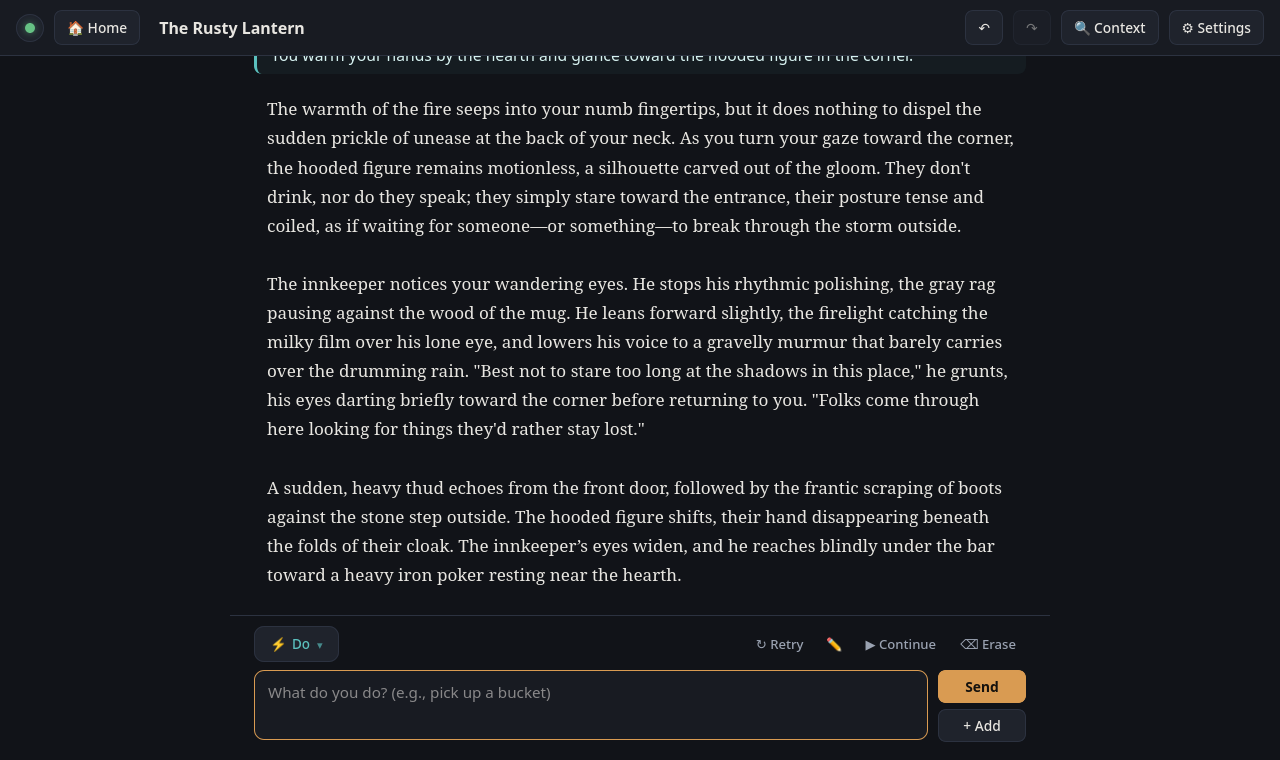
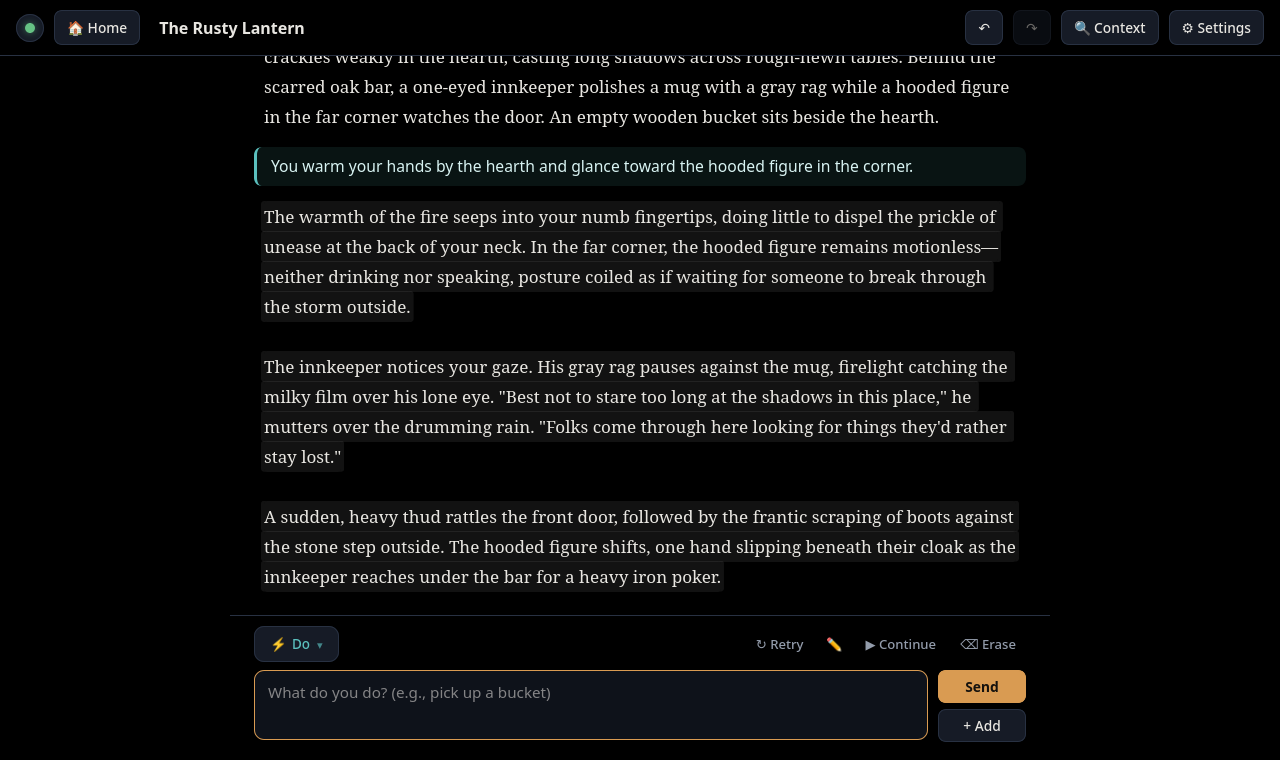
Rewrite README and update UI screenshots

Changed region(s): [[0.0, 0.0, 1.0, 0.3329], [0.1875, 0.3632, 0.7812, 0.6053], [0.1875, 0.6355, 0.7812, 0.7868]]

diff --git a/README.md b/README.md
@@ -1,57 +1,90 @@
+<div align="center">
+
 # AI RPG Harness
 
-A local, self-hosted interactive fiction & AI RPG web application modeled after AI Dungeon's core gameplay loop—with zero Python third-party dependencies, full desktop and mobile web UI, nested Multiple Choice scenarios, Character Creator, Story Cards, dynamic memory & context budgeting, JavaScript scripting hooks, and one-command Tailscale mobile access.
+**Play unlimited, private, AI Dungeon-style text adventures on your own computer—or from your phone.**
 
-> **Disclosure:** All of the code in this repository was generated with AI assistance.
-> **Security Note:** This app has no authentication and runs JavaScript scenario scripts via Node.js `vm`. Run it only on `localhost` or a private network (such as Tailscale), and only execute scripts you trust.
+*Self-hosted · Zero Python dependencies · Local & Cloud AI · Desktop & Mobile*
+
+[![Python 3.10+](https://img.shields.io/badge/Python-3.10%2B-3776AB?logo=python&logoColor=white)](https://www.python.org/)
+[![Node.js 18+](https://img.shields.io/badge/Node.js-18%2B-339933?logo=node.js&logoColor=white)](https://nodejs.org/)
+[![License: MIT](https://img.shields.io/badge/License-MIT-f5b759.svg)](LICENSE)
+
+[Features](#features) · [Installation](#installation) · [How to Play](#how-to-play) · [Technical Information](#technical-information)
+
+<br />
+
+<img src="docs/screenshots/gameplay-desktop.png" alt="AI RPG Harness desktop gameplay" width="880" />
+
+*Inline dark-mode prose, styled character actions, and quick turn controls.*
+
+</div>
 
 ---
 
-## Screenshots
+AI RPG Harness gives you a clean, distraction-free dark-mode home for interactive storytelling. Connect it to a local AI running on your own hardware—or plug in an OpenAI-compatible cloud API—and start playing right away. No subscriptions, no accounts, and no `pip install` needed.
 
-| Home (`Scenarios`) | Desktop Gameplay | Mobile Gameplay |
-|---|---|---|
-| ![Home Scenarios](docs/screenshots/home.png) | ![Desktop Gameplay](docs/screenshots/gameplay-desktop.png) | ![Mobile Gameplay](docs/screenshots/gameplay-mobile.png) |
+> [!NOTE]
+> **Disclosure:** All code in this repository was generated with AI assistance.
+
+> [!WARNING]
+> **Safety Notice:** This app has no login screen and runs JavaScript scenario scripts on your machine. Only run it on your own computer (`localhost`) or a private network like Tailscale, and only use scripts you trust.
 
 ---
 
 ## Features
 
-- **Home Hub (`Adventures` & `Scenarios`)**: Clean 2-tab start page to resume adventures or browse, play, create, edit, and import scenarios.
-- **4 Input Modes**: Compact collapsible pill switcher (`Do`, `Say`, `Story`, `Guide`) plus `Send` (streams SSE generation) and `+ Add` (appends beats without triggering generation yet).
-- **Turn Editing & Retry Variants**:
-  - `Undo` / `Redo`, `Continue`, `Erase`, `Retry`, and `Retry with changes`.
-  - Smooth horizontal **swipe carousel** on mobile (`‹` / `›` on desktop) to switch between Retry generations.
-  - Hover (desktop) or tap (mobile) any message to **Edit**, **Delete**, **Erase to Here**, **Change Name** (Third Person), or **View Context**.
-- **Scenario Engine**:
-  - **Story** scenarios with `${placeholder}` prompts and Third Person mode.
-  - **Deep Nested Multiple Choice** trees with recursive inheritance of Story Cards, Scripts, Plot fields, and leaf option titles.
-  - **Character Creator** with **Quickstart** (auto-rolled profile + cards) and a step-by-step Name / Gender / Card Category wizard.
-  - **Scenario Importer**: Import from `play.aidungeon.com` Scenario URLs (via optional Playwright) or exported `metadata.json` / `.json` files.
-- **Plot, Memory & Context Inspector**:
-  - Dedicated **Adventure** (`Plot`, `Cards`, `Scripts`, `Details`) and **AI Settings** tabs; AI Settings persist globally in `settings.json` across new adventures.
-  - Keyword-triggered & pinned **Story Cards** (`.json` import/export + AI entry generation).
-  - Automatic **Story Summarization** (every 15 actions) & **Memory Bank** retrieval (every 6 actions).
-  - **View Context** modal with proportional token-usage bar, `Context Warning` notices, `Removed Context` deduplication log, and Memory Bank Explorer.
-  - **Scripting API**: Sandboxed Node.js `input`, `context`, and `output` modifier hooks (`Built-in` + up to 10 reusable scripts per story).
-  - **Backups**: Export any adventure as a `.zip` archive (`Adventure` tab → `Details`).
+### 📖 Smooth, Distraction-Free Gameplay
+- **Inline Prose & Styled Actions:** Stories read like a book on a deep dark-mode canvas, with your **Do** and **Say** actions clearly highlighted.
+- **4 Ways to Steer the Story:** Switch anytime between **Do** (take an action), **Say** (speak dialogue), **Story** (write narration directly), and **Guide** (give the AI a one-turn behind-the-scenes direction).
+- **Total Turn Control:** **Undo**, **Redo**, **Continue**, **Erase**, **Retry**, and **Retry with changes** (tell the AI exactly what to tweak in its last reply).
+- **Queue Multiple Beats:** Use **`+ Add`** to stack actions or dialogue without triggering the AI yet, then press **Continue** or **Send** when you're ready.
+- **Swipe Between Retries:** Swipe sideways on mobile (or use `‹` / `›` on desktop) to flip between different versions of the latest AI response.
+- **Edit Any Turn:** Hover over a message on desktop—or tap it on mobile—to **Edit**, **Delete**, **Erase to Here**, **Change Name** (in Third Person mode), or **View Context**.
 
----
+### 🗺 Scenarios, Choices & Characters
+- **Ready Out of the Box:** Comes with two starter worlds (*The Rusty Lantern* and *Orbital Relay 9*) in a clean **Adventures / Scenarios** home hub.
+- **Three Scenario Types:**
+  - **Story:** Classic opening prompt with fill-in-the-blank `${placeholder}` questions and optional Third Person mode.
+  - **Multiple Choice:** Multi-level branching paths where each choice can bring its own opening, lore, Story Cards, and scripts.
+  - **Character Creator:** Step-by-step hero builder—or click **Quickstart** to roll a random character and jump straight into the story.
+- **Import from AI Dungeon:** Import `.json` scenario files (`metadata.json`) or pull public scenarios directly from a `play.aidungeon.com` URL.
 
-## Requirements
+<p align="center">
+  <img src="docs/screenshots/home.png" alt="AI RPG Harness Home hub showing Scenarios" width="800" />
+  <br />
+  <sub>The Home hub: jump into any scenario with a click, create your own, or import from AI Dungeon.</sub>
+</p>
 
-- **Python 3.10+** (uses only the Python standard library — no `pip install` needed)
-- **Node.js 18+** (used for JS scripting hooks and optional scenario URL import)
-- **An OpenAI-compatible local LLM server**, such as:
-  - [`llama.cpp`](https://github.com/ggml-org/llama.cpp) (`llama-server`)
-  - Ollama, LM Studio, or vLLM
-- *(Optional, for importing `play.aidungeon.com` URLs directly)*: Playwright + Firefox (`npm install && npx playwright install firefox`)
+### 🧠 Memory That Keeps Up With Long Stories
+- **Story Cards:** Save characters, places, factions, and items that automatically feed into the AI whenever their keywords come up (or pin key cards so they're always active). Generate card entries with AI or import/export `.json` card decks.
+- **Plot Controls:** Shape the AI with **AI Instructions**, **Plot Essentials**, **Author's Note**, and **Story Summary** (with one-click **Auto-Summarize**).
+- **Automatic Long-Term Memory:** Turn on **Auto Summarization** and the **Memory Bank** so the AI remembers important events from much earlier in your campaign.
+- **Context Viewer:** Click **Context** anytime to see exactly what the AI is reading, how much memory is used, and any warnings.
+
+### 🔌 Any AI, Any Device, Extra Add-ons
+
+<img align="right" src="docs/screenshots/gameplay-mobile.png" alt="AI RPG Harness mobile gameplay" width="240" />
+
+- **Local or Cloud AI:** Works with **llama.cpp**, **Ollama**, **LM Studio**, **vLLM**, **OpenRouter**, **OpenAI**, and other OpenAI-compatible servers. Switch endpoints or models right inside the app—no restart needed.
+- **Smart Model Adaptation:** Automatically detects your model's maximum context window and shows the right **Thinking / Reasoning** control (either a 5-step effort slider or a simple on/off toggle) when supported.
+- **One-Click Community Scripts:** Toggle **🎭 Inner Self** (NPC memory, goals, and secrets) and **✨ Auto-Cards** (automatic Story Card creation) right when starting an adventure, or write and test your own JavaScript hooks.
+- **Play on Your Phone:** Responsive mobile layout with swipe gestures and one-command [Tailscale](https://tailscale.com/) support so you can keep playing from anywhere.
+- **Instant Auto-Save & `.zip` Backups:** Every setting change saves automatically, and you can download any adventure as a `.zip` backup anytime.
+
+<br clear="right" />
 
 ---
 
 ## Installation
 
-### 1. Clone the repository
+### What You Need
+- **Python 3.10+** *(uses only Python's built-in library—nothing to `pip install`)*
+- **Node.js 18+** *(used for scenario scripts and optional URL imports)*
+- **An AI model to connect to:** a local server like [`llama.cpp`](https://github.com/ggml-org/llama.cpp) (`llama-server`), **Ollama**, **LM Studio**, or **vLLM**—or a cloud API key (such as **OpenRouter** or **OpenAI**)
+- *(Optional)* **Playwright + Firefox** — only needed if you want to import scenarios directly from `play.aidungeon.com` links
+
+### 1. Clone the Repository
 
 ```bash
 git clone https://github.com/ya5h-P/AI-RPG-Harness.git
@@ -59,120 +92,179 @@ cd AI-RPG-Harness
 chmod +x start.sh
 ```
 
-### 2. Optional: Enable `play.aidungeon.com` URL imports
+### 2. *(Optional)* Enable AI Dungeon URL Imports
 
-If you only write scenarios locally or import `.json` files, you can skip this step. To import public scenarios directly by URL:
+Skip this if you only create your own scenarios or import `.json` files:
 
 ```bash
 npm install
 npx playwright install firefox
 ```
 
-### 3. Start an OpenAI-compatible LLM server
+### 3. Start Your Local AI *(or Skip for Cloud APIs)*
 
-Start your local model server (default expected address: `http://127.0.0.1:8080`). Example with `llama.cpp`:
+If you're running a local model, start your server first (AI RPG Harness checks `http://127.0.0.1:8080` by default). For example, with `llama.cpp`:
 
 ```bash
-llama-server -m /path/to/model.gguf --port 8080 -c 32768
+llama-server -m /path/to/your-model.gguf --port 8080 -c 32768
 ```
 
-*(If you use Ollama on `:11434` or LM Studio on `:1234`, set `LLM_URL` when starting—see Configuration below.)*
+### 4. Start the App
 
----
-
-## Running the App
-
-### Desktop (Local Only)
+**On your computer:**
 
 ```bash
 ./start.sh
 ```
 
-Open **http://127.0.0.1:7860** in your browser. Look for the green dot in the top-left corner—hovering it shows the connected model name.
+Open **http://127.0.0.1:7860** in your browser.
 
-### Play from Your Phone (Tailscale)
+**To play from your phone over Tailscale:**
 
-Make sure [Tailscale](https://tailscale.com/) is connected on both your host machine and phone, then run:
+Make sure [Tailscale](https://tailscale.com/) is connected on both your computer and your phone, then run:
 
 ```bash
 ./start.sh --tailscale
 ```
 
-`start.sh` prints your Tailscale IP URL (for example `http://100.x.y.z:7860`) and MagicDNS URL (`http://<hostname>.ts.net:7860`). Open either URL on your phone browser.
+`start.sh` prints your Tailscale IP URL (e.g. `http://100.x.y.z:7860`) and MagicDNS URL (`http://<hostname>.ts.net:7860`). Open either link on your phone.
 
-### Background Management Commands
+### Everyday Commands
 
 ```bash
-./start.sh --bg --tailscale   # Run detached in background (writes logs/server.log)
-./start.sh status             # Show LLM server, Web UI health, and phone URL
-./start.sh stop               # Stop background Web UI server
-./start.sh test               # Run the full automated unit test suite
-./start.sh --help             # Show CLI options and environment variables
+./start.sh --bg --tailscale   # Run in the background (logs to logs/server.log)
+./start.sh status             # Check AI server & Web UI health + show phone URL
+./start.sh stop               # Stop the background server
+./start.sh test               # Run the automated test suite
+./start.sh --help             # Show all options
 ```
 
 ---
 
-## Usage Guide
+## How to Play
 
-### 1. Starting & Playing an Adventure
+### 1. Connect Your AI Model
+On the Home screen, look at the button in the **top-right corner**—a **green dot** with your model's name means you're ready to play.
 
-- **Home Screen**: Switch between **Adventures** (saved stories) and **Scenarios** (starter templates, custom scenarios, or imported scenarios).
-- **Modes** (tap/click the mode pill at bottom-left to expand `← Do | Say | Story | Guide`):
-  - **Do** (`Alt+1`): Character actions, automatically formatted (`you` → `You <action>.`, or Third Person `<Name> <action>.`) and marked with `>` in AI context.
-  - **Say** (`Alt+2`): Character dialogue (`You say, "<dialogue>"`).
-  - **Story** (`Alt+3`): Direct inline narrative text without action formatting.
-  - **Guide** (`Alt+4`): Temporary out-of-character GM instruction for the next AI turn only.
-- **Send vs `+ Add`**:
-  - **Send** adds your input and immediately streams the AI response (`Enter` sends; `Shift+Enter` inserts a newline).
-  - **`+ Add`** appends your formatted turn to the feed *without* triggering generation yet so you can stack multiple beats before pressing **▶ Continue** or **Send**.
-- **Top-Right Controls**: `↶ Undo`, `↷ Redo`, `🔍 Context` (inspect prompt tokens & warnings), and `⚙ Settings`.
+To connect to Ollama, LM Studio, or a cloud provider:
+1. Click the **Model** button in the top-right corner of the Home screen *(or click the status dot in the top-left during an adventure)*.
+2. Enter your **Base URI**:
+   - **llama.cpp:** `http://127.0.0.1:8080`
+   - **Ollama:** `http://127.0.0.1:11434/v1`
+   - **LM Studio:** `http://127.0.0.1:1234/v1`
+   - **OpenRouter:** `https://openrouter.ai/api/v1`
+   - **OpenAI:** `https://api.openai.com/v1`
+3. Add your **API Key** if required, click **↻ Fetch** to choose a model, and click **Save & Connect**.
 
-### 2. Mobile Controls & Gestures
+### 2. Start an Adventure
+- Switch between **Adventures** (saved stories) and **Scenarios** (starter worlds, custom scenarios, or imported scenarios).
+- Click any scenario card to start playing—or use **+ Create Scenario** and **📥 Import** in the top-right.
+- On the setup screen, you can also toggle **🎭 Inner Self** and **✨ Auto-Cards** on with a single click before starting.
 
-- **Tap any message** in the story feed to open its inline toolbar (`Edit`, `Delete`, `Erase to Here`, `View Context`, `Change Name`); tap again or tap outside to close. *(On desktop, hover over any message instead.)*
-- **Swipe sideways** on the latest AI response when multiple Retry generations exist to glide smoothly between variants.
+### 3. Take Turns & Steer the Story
+Click the mode pill at the bottom-left (or use keyboard shortcuts) to choose how your turn is sent:
 
-### 3. Settings (`Adventure` & `AI Settings`)
+| Mode | Shortcut | What It Does |
+| :--- | :---: | :--- |
+| ⚡ **Do** | `Alt+1` | Take an action (auto-formatted like `You warm your hands by the hearth.`). |
+| 💬 **Say** | `Alt+2` | Speak dialogue (auto-formatted like `You say, "Who goes there?"`). |
+| 📖 **Story** | `Alt+3` | Write narrative text directly into the story without action formatting. |
+| 🧭 **Guide** | `Alt+4` | Send a temporary out-of-character instruction for the next AI turn only. |
 
-Click **`⚙ Settings`** in the top-right during any adventure:
+- **Send** (`Enter`) adds your turn and streams the AI's response (`Shift+Enter` adds a new line).
+- **`+ Add`** appends your turn without triggering the AI yet, so you can stack multiple beats before pressing **▶ Continue** or **Send**.
 
-- **Adventure Tab**:
-  - **Plot**: `AI Instructions`, `Story Summary` (with manual `✨ Auto-Summarize`), `Plot Essentials`, `Author's Note`, and `Third Person` toggle/name.
-  - **Cards**: Create, search, filter, pin, AI-generate entries, or import/export AI Dungeon Story Card `.json` files.
-  - **Scripts**: Toggle built-in JS hooks or attach up to 10 reusable scripts with a live test runner & console log.
-  - **Details**: Edit title/description/tags and download a full `.zip` backup.
-- **AI Settings Tab**:
-  - Tune **Model Settings** (`Context Length`, `Response Length`, `Temperature`, `Top P`, `Top K`, `Repetition / Presence / Frequency Penalty`) and **Memory & Output** (`Auto Summarization`, `Memory Bank`, `Raw Model Output`, `Follow latest text`, `Enable Gemma Thinking Mode`).
-  - Changes inside `AI Settings` **auto-save immediately** to the active story *and* persist globally to `settings.json` for all future adventures.
-
-### 4. Switching Models & Providers (Local or Cloud)
-
-Click **`🔌 Model`** in the **top-right of the Home page** (or click the status dot anytime) to switch between any local or OpenAI-compatible remote endpoint without restarting:
-
-- **Base URI**: e.g., `http://127.0.0.1:8080` (`llama-server`), `http://127.0.0.1:11434/v1` (Ollama), `http://127.0.0.1:1234/v1` (LM Studio), `https://openrouter.ai/api/v1`, or `https://api.openai.com/v1`
-- **API Key**: Optional (`Authorization: Bearer ...` header); masked on read and saved locally in `settings.json`
-- **Model Name**: Automatically populated if the server offers 1 model, or selectable via `↻ Fetch` when multiple models are available
+### 4. Edit, Retry & Customize
+- **Quick bar:** Use **↻ Retry**, **✏ Retry with changes**, **▶ Continue**, and **⌫ Erase** above the input box, plus **↶ Undo** and **↷ Redo** in the top bar.
+- **Per-message actions:** Hover on desktop or tap on mobile to **Edit**, **Delete**, **Erase to Here**, **Change Name**, or **View Context**.
+- **⚙ Settings (auto-saved):**
+  - **Adventure tab:** Manage **Plot** (*AI Instructions*, *Story Summary* + *Auto-Summarize*, *Plot Essentials*, *Author's Note*, *Third Person*), **Cards**, **Scripts** (built-in, reusable, and community scripts + console log), and **Details** (title, description, tags, and **`.zip` backup**).
+  - **AI Settings tab:** Tune **Context Length** (slider + number input), **Response Length**, **Temperature**, **Top P / Top K**, penalties, **Auto Summarization**, **Memory Bank**, **Raw Model Output**, **Follow latest text**, and model-aware **Thinking / Reasoning** controls. Changes save immediately and carry over as defaults for future adventures.
 
 ---
 
-## Configuration (Environment Variables)
+## Technical Information
+
+### Architecture
+
+| Component | Files | Implementation Details |
+| :--- | :--- | :--- |
+| **HTTP & SSE Server** | `server.py` | Python 3.10+ stdlib `ThreadingHTTPServer`, per-story `threading.Lock` synchronization, Server-Sent Events (SSE) streaming proxy, `30s` idle socket timeout, graceful client-disconnect handling. |
+| **Core Engine** | `harness.py` | Dataclass models (`Story`, `Scenario`, `StoryCard`, `MemoryItem`, `Script`, `Segment`), recursive Multiple Choice inheritance (up to depth 12), `${placeholder}` substitution, context planner, TF-IDF Memory Bank, and atomic JSON writes (`.tmp` + `os.replace`). |
+| **JS Script Sandbox** | `script_runner.py` | Isolated Node.js `vm` execution per hook (`library`, `input`, `context`, `output`) with timeouts (`2.5s` library, `3.0s` hook, `6.0s` subprocess). Exposes AI Dungeon-compatible `state`, `info`, `history`, `storyCards` / `worldInfo`, `quests`, and card CRUD helpers. |
+| **URL Importer** | `aidungeon_importer.mjs` | Optional Playwright (headless Firefox) GraphQL response interceptor for `play.aidungeon.com`, with recursive option-tree hydration (up to depth 4, max 30 fetches). |
+| **Web Frontend** | `static/index.html`, `static/style.css`, `static/app.js` | Zero-build vanilla HTML/CSS/JS SPA with SSE streaming, touch swipe carousel for retry variants, and debounced auto-save settings. |
+
+### Context Budgeting & Memory Pipeline
+
+`build_context_plan()` in `harness.py` assembles prompts using a Required vs. Dynamic token budget (default context length: `16,384` tokens, clamped to the active model's detected limit):
+
+1. **Required Context (capped at 70% of effective context limit):** Allocated in priority order—`Front Memory` and `Last Action` are never truncated, followed by `Author's Note` → `Plot Essentials` → `AI Instructions` → `Story Summary`.
+2. **Dynamic Context (remaining budget):**
+   - **Story Cards (~25%):** Pinned cards first, then keyword-matched cards scanned across recent segments and ranked by recency and hit count.
+   - **Memory Bank (~25%, when enabled):** Ranked against the last 3 segments via TF-IDF cosine similarity.
+   - **Story History (~50%, or ~75% without Memory Bank):** Packed newest-first while always retaining the latest segment.
+3. **Background Memory Maintenance (`_run_memory_maintenance`):**
+   - **Memory Bank:** Once `>= 12` unsummarized segments accumulate, compresses the oldest 6-segment window into a 1–3 sentence memory via a one-shot LLM call.
+   - **Auto Summarization:** Updates the rolling 3–5 sentence Story Summary every 15 segments, preserving manual edits.
+4. **Tokenization & Output Cleanup:** Queries `llama.cpp` `/tokenize` for exact counts when available (falling back to `~4 chars/token`). Unless **Raw Model Output** is enabled, trims incomplete trailing sentences on `finish_reason == "length"` and strips repeated leading sentences or suffix-prefix dialogue overlaps (recorded under `Removed Context` in the Context Viewer).
+
+### Provider, Context & Reasoning Detection
+
+- **Endpoint Compatibility:** Supports `auto`, `llama_cpp`, and `openai_compat` provider routing, normalized `/v1` path joining, and optional `Authorization: Bearer` headers (masked on read in UI responses).
+- **Context Limit Probing:** Queries `llama.cpp` `/props` & `/slots` (`n_ctx`) or parses `/v1/models` metadata (`context_length`, `max_model_len`, `max_context_length`, `input_token_limit`, `context_window`).
+- **Thinking / Reasoning Classification:** Automatically classifies the active model as:
+  - `effort` — stepped `reasoning_effort` (`off`, `low`, `medium`, `high`, `xhigh`) via `/props` `supports_reasoning_effort`, `/v1/models` `supported_parameters`, or model family detection (e.g., `gpt-5`, `o1`/`o3`/`o4`, `claude-3.7`/`4`, `gemini-2.5`/`3`/`4`, `grok-4`).
+  - `toggle` — boolean `chat_template_kwargs.enable_thinking` (e.g., `gemma-4`, `qwen3`, `deepseek-r1`, `glm-4`).
+  - `none` — hides thinking controls when unsupported.
+
+<details>
+<summary><strong>Environment Variables</strong></summary>
 
 | Variable | Default | Description |
-|---|---|---|
+| :--- | :--- | :--- |
 | `PORT` | `7860` | Web UI HTTP port |
 | `HOST` | `127.0.0.1` | Bind host (`0.0.0.0` for LAN, or pass `--tailscale`) |
 | `LLM_URL` | `http://127.0.0.1:8080` | Default Base URI of your OpenAI-compatible LLM server |
-| `LLM_API_KEY` | *(optional)* | Default Bearer API key for remote OpenAI-compatible providers |
-| `LLM_MODEL` | *(auto)* | Default model name override |
-| `LLM_PORT` | `8080` | Port checked by `start.sh` when using default `LLM_URL` |
-| `LLAMA_SERVE_SCRIPT` | *(optional)* | Path to a local bash script launched when clicking `Start LLM` in the Web UI |
-| `TAILSCALE` | `0` | Set to `1` to bind Tailscale IP automatically |
+| `LLM_API_KEY` | *(optional)* | Default Bearer API key for remote providers |
+| `LLM_MODEL` | *(auto)* | Default model ID override |
+| `LLM_PORT` | `8080` | Port checked by `start.sh status` when using default `LLM_URL` |
+| `LLAMA_SERVE_SCRIPT` | *(optional)* | Path to a local bash script launched by the Web UI's `Start LLM` button |
+| `TAILSCALE` | `0` | Set to `1` / `true` to bind your Tailscale IPv4 address automatically |
 
----
+</details>
 
-## Running Tests
+<details>
+<summary><strong>Project Structure & Local Data</strong></summary>
 
-No live LLM server is required; the suite uses local mock HTTP servers in isolated temporary directories:
+```text
+.
+├── server.py                # Stdlib HTTP/SSE server, REST API & OpenAI-compatible LLM proxy
+├── harness.py               # Data models, choice inheritance, context planner, memory & dedup
+├── script_runner.py         # Node.js vm runner for AI Dungeon-compatible JS hooks
+├── aidungeon_importer.mjs   # Optional Playwright scraper for play.aidungeon.com scenarios
+├── start.sh                 # Launcher, Tailscale binding, background control, status & test runner
+├── test_harness.py          # Automated unit & API test suite
+├── package.json             # Optional Playwright dependency manifest
+├── scenarios/               # Starter scenarios (tavern.json, station.json) & user scenarios
+├── docs/screenshots/        # README UI screenshots
+└── static/
+    ├── index.html           # Single-page app shell, drawers & modals
+    ├── style.css            # Deep dark-mode desktop & mobile styling
+    └── app.js               # Client state, SSE streaming, swipe carousel & auto-save editors
+```
+
+**Runtime files created locally (gitignored):**
+- `stories/` — Saved adventures (segments, retry variants, undo/redo stacks, memories, script state)
+- `scripts/` — Reusable scripts and cached community scripts (`Inner Self`, `Auto-Cards`)
+- `settings.json` — Persisted global AI settings and active endpoint configuration
+- `logs/` — Background server logs (`server.log`, `llama-server.log`)
+
+</details>
+
+### Running Tests
+
+No live LLM server is required—the suite uses local mock HTTP servers in isolated temporary directories:
 
 ```bash
 ./start.sh test
@@ -180,24 +272,9 @@ No live LLM server is required; the suite uses local mock HTTP servers in isolat
 python3 -m unittest -v test_harness.py
 ```
 
----
-
-## Project Structure
-
-```text
-.
-├── server.py                # Stdlib HTTP/SSE server & OpenAI-compatible LLM proxy
-├── harness.py               # Data models, scenario/choice inheritance, context planner, memory & dedup
-├── script_runner.py         # Sandboxed Node.js modifier runner (input / context / output hooks)
-├── aidungeon_importer.mjs   # Optional Playwright scraper for play.aidungeon.com scenarios
-├── start.sh                 # Launcher, Tailscale binding, background control, status & test runner
-├── test_harness.py          # Automated unit & API test suite
-├── package.json             # Optional Playwright dependency manifest
-└── static/
-    ├── index.html           # Single-page app shell & modals
-    ├── style.css            # Responsive desktop & mobile styling
-    └── app.js               # Client state, SSE streaming, swipe carousel & editors
-```
+### Security & Trust Model
+- No authentication or TLS is built into `server.py`; bind only to `127.0.0.1` or a private overlay network such as Tailscale.
+- Node.js's `vm` module isolates script state for convenience, not as a hardened security boundary against untrusted JavaScript. Only run scripts from sources you trust.
 
 ---
 
